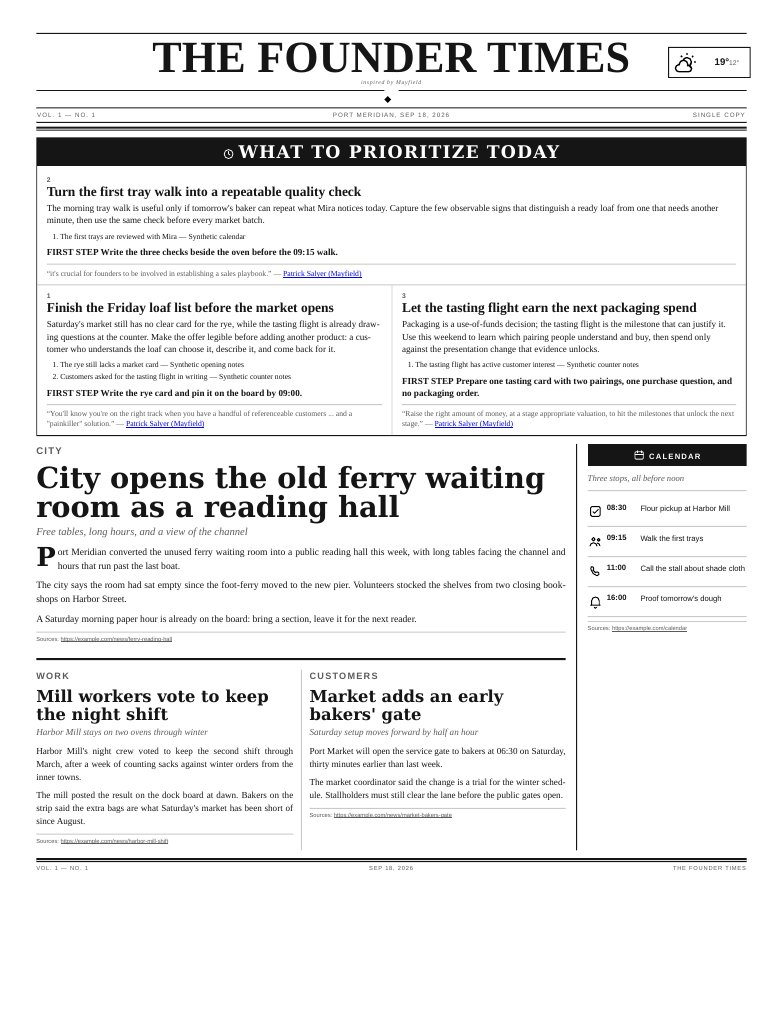
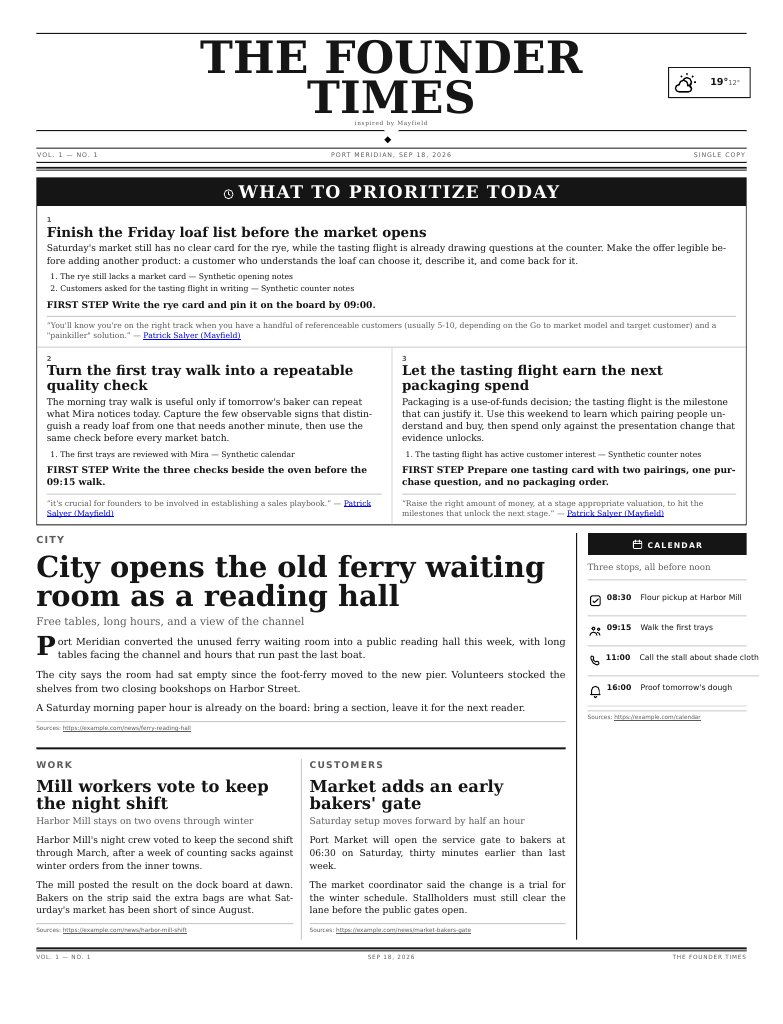
fix: align advisor setup and listing with the sourced catalog

Changed region(s): [[0.0307, 0.0312, 0.9808, 0.9375]]

diff --git a/tests/pt/test_advisors.py b/tests/pt/test_advisors.py
@@ -42,10 +42,6 @@ def test_the_renderer_catalog_reads_every_sourced_line(path):
     assert {" ".join(q.split()): u for q, u in quotes} == catalog
 
 
-def test_three_advisors_ship():
-    assert {p.stem for p in FILES} >= {"patrick-salyer", "paul-graham", "ben-horowitz"}
-
-
 def test_no_quoted_line_is_shared_across_advisors():
     # The culler's distinct-quote rule spans every advisor's file.
     seen = {}

diff --git a/skills/memo-setup/SKILL.md b/skills/memo-setup/SKILL.md
@@ -254,15 +254,15 @@ Send only the `NEXT_QUESTION` it prints (question 3a), then stop.
 
 ## NEXT_QUESTION=priority
 
-This is the advisor desk (`priority.configured`) — a Salyer-style
-adversarial tournament, not the signal-listening feature below
+This is the advisor desk (`priority.configured`) — a stage-appropriate
+adversarial tournament grounded in Patrick Salyer, Paul Graham and Ben Horowitz, not the signal-listening feature below
 (`signals.*`, question 5). The two share the English word "priority" and
 nothing else; `priority.configured=true` implies nothing about whether any
 signal source is on.
 
 Copy the question (CHAT_VOICE), in the owner's language:
 
-> ⭐ Every morning the paper can open with what Patrick Salyer would tell you after watching your last day. What are you trying to make true over the next few quarters? (or "no" to skip the advisor desk)
+> ⭐ Every morning the paper can open with advice grounded in Patrick Salyer, Paul Graham and Ben Horowitz, matched to your company's stage and your last day. What are you trying to make true over the next few quarters? (or "no" to skip the advisor desk)
 
 Stop. On their next message:
 

diff --git a/README.md b/README.md
@@ -10,8 +10,8 @@ named, in the language you write.
 
 ## What it is
 
-The product is a **compact Letter paper**. It can open with **what Patrick
-Salyer would tell you** after watching your last day, learned from your Mac,
+The product is a **compact Letter paper**. It can open with **stage-appropriate advice from Patrick Salyer, Paul Graham and Ben Horowitz**
+after watching your last day, learned from your Mac,
 then weather, one calendar rail, and up to three stories you told it to cover.
 The longest story leads; the other two sit side by side. A dense edition may
 continue onto a second sheet. It goes to a printer on your Mac when one is

diff --git a/skills/memo-setup/assets/advisors/paul-graham.md b/skills/memo-setup/assets/advisors/paul-graham.md
@@ -50,7 +50,7 @@ Graham's essays are written from Y Combinator's seat: the first years of softwar
 ### Do not focus on
 - Hiring ahead of growth, or work that does not move the number.
 ### Benchmarks
-- 5–7% a week is a good rate early on; 1% suggests the founders haven't figured out what they're doing.
+- During Y Combinator, 5–7% a week is a good rate; 1% suggests the founders haven't figured out what they're doing.
 ### Exit criteria
 - Default alive, or a funded path to it.
 
